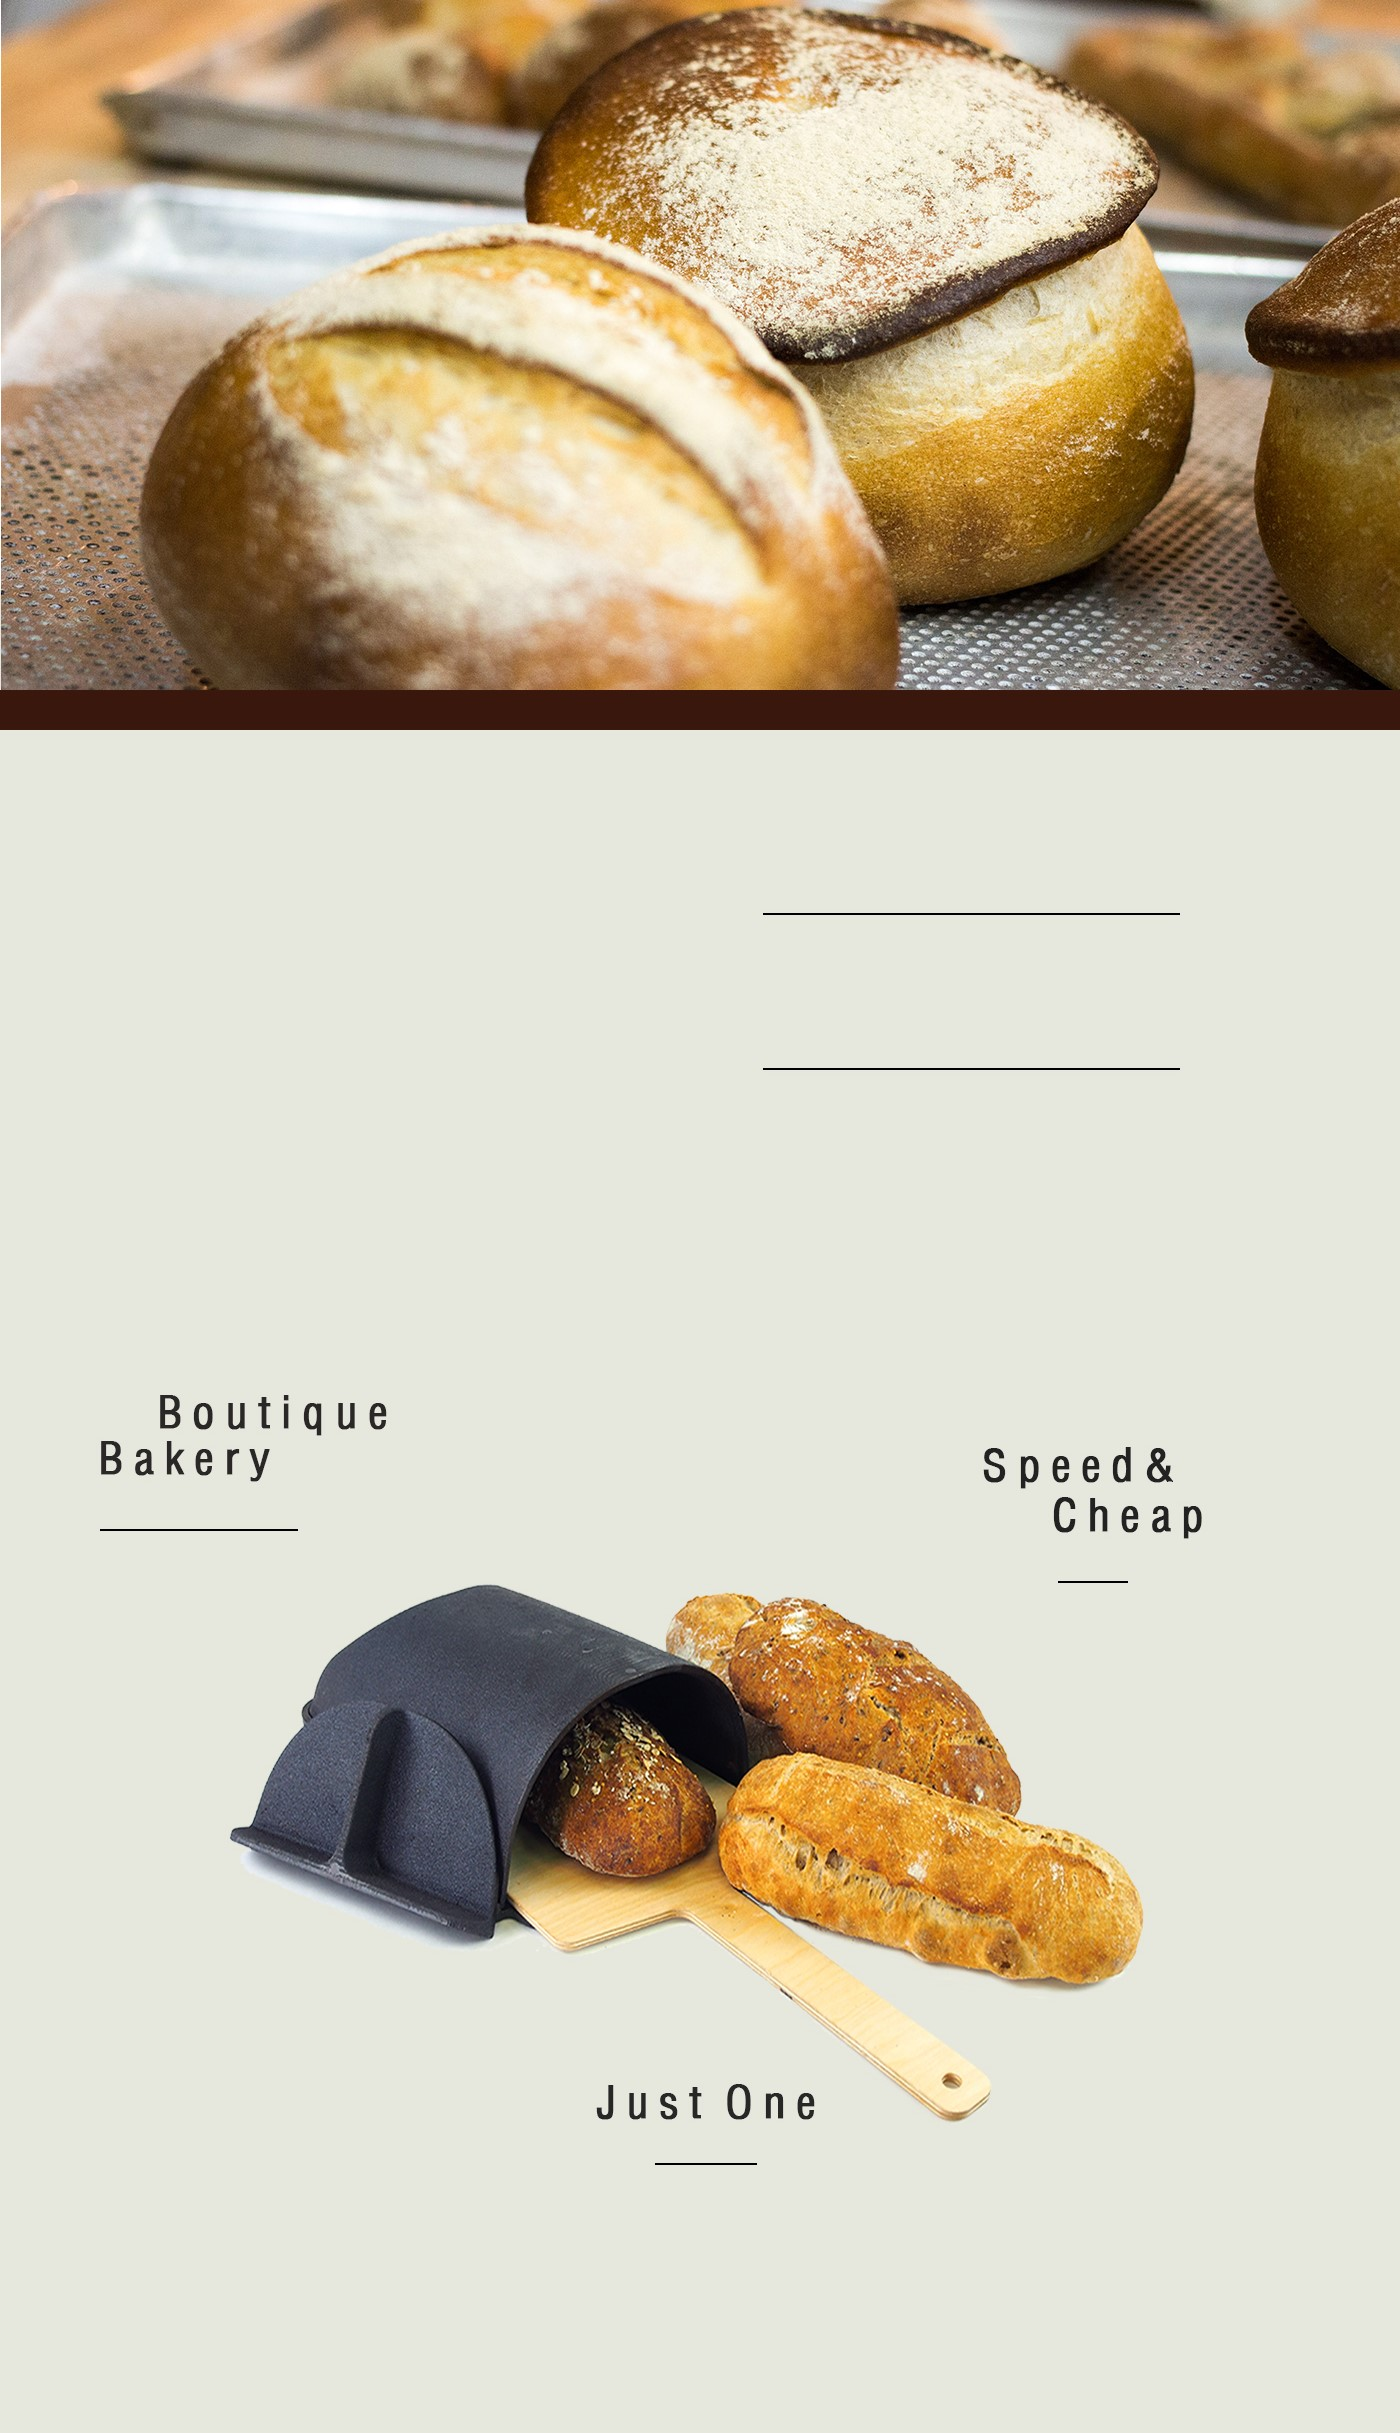
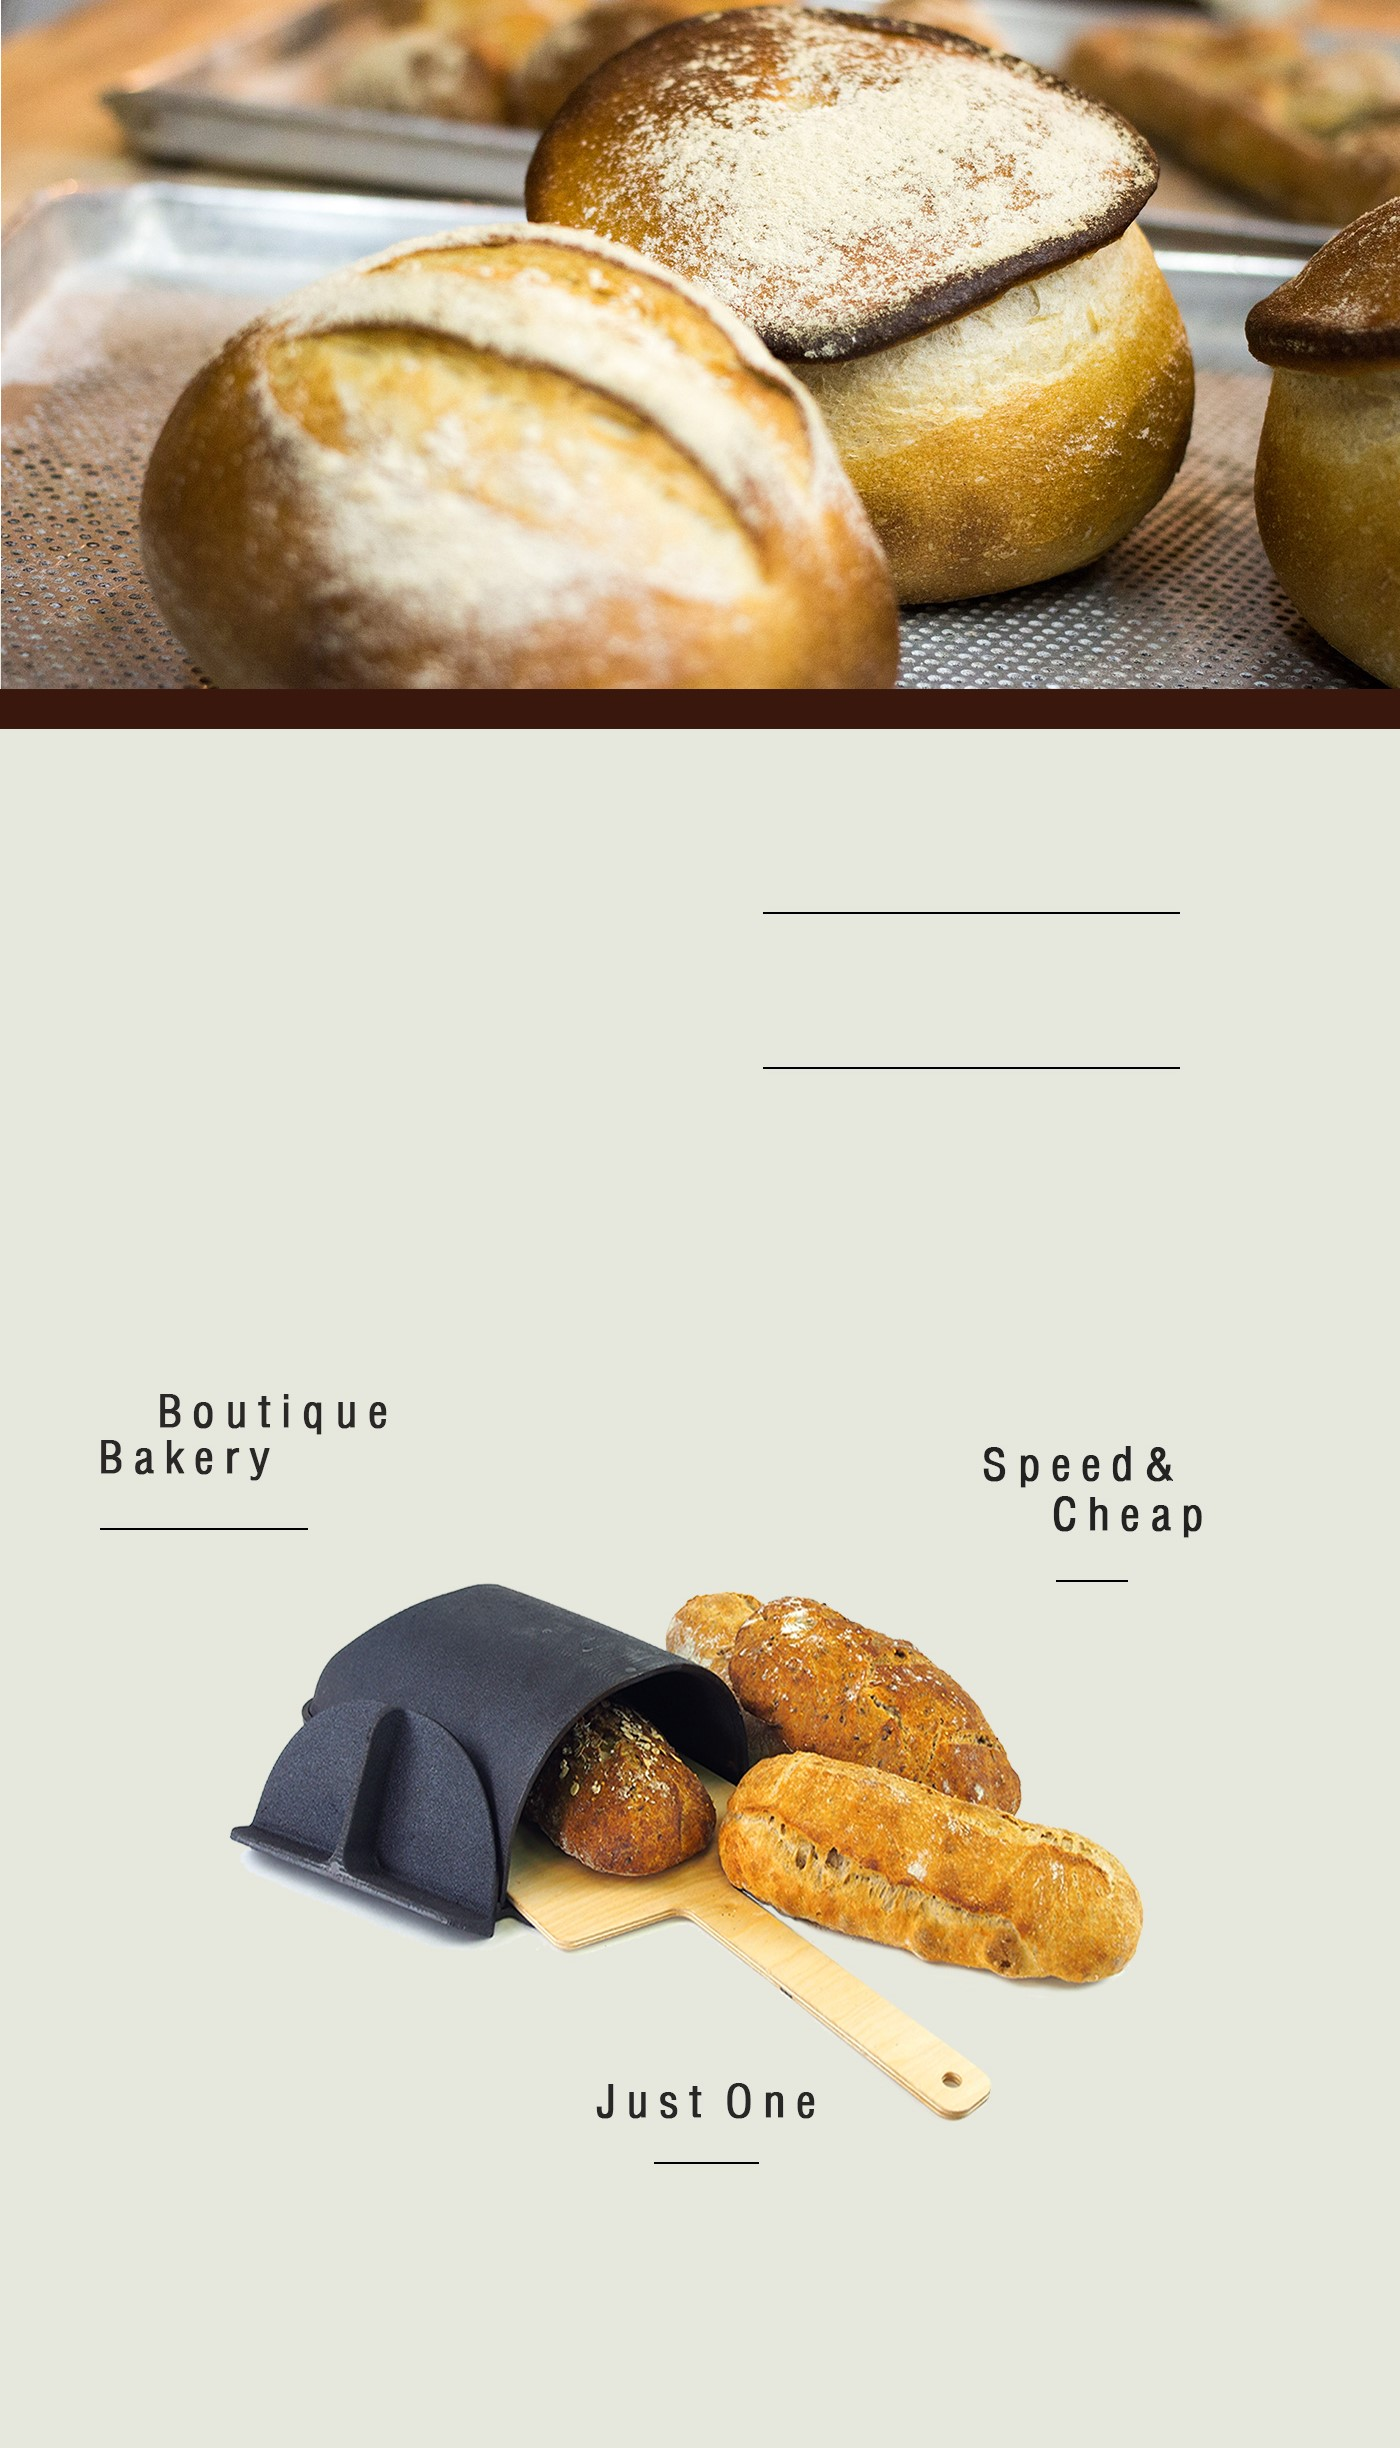
Add files via upload

diff --git a/index.html b/index.html
@@ -18,7 +18,7 @@
 
 		a:link, a:active, a:visited {text-decoration: none; color:black;}
 		ul, ol, li {list-style: none;}
-		#contents1 nav { width:1400px;   height:180px; position:absolute; top:678px; left:140px;  }
+		#contents1 nav { width:1400px;   height:180px; position:absolute; top:670px; left:140px;  }
 		
 		#title { position:relative; text-align:center; top:50px; left:-25px; font-weight: bold; font-size:2.5em;  }
 		
@@ -45,15 +45,15 @@
 		#contents1 #h3 {top:900px; left:550px; font-size:4.2em; line-height: 1.4; font-weight: 900;  }
 
 		
-		#contents1 #p1 {top:905px; left:-285px; font-size:1.15em; line-height: 2.3; font-weight: 400; text-align:center;}
-		#contents1 #p2 {top:660px; left:920px; font-size:1em; line-height: 2.3; font-weight: 400; }
-		#contents1 #p3 {top:645px; left:865px; font-size:1.6em; line-height: 2.2; font-weight: 700; }
-		#contents1 #p4 {top:1110px; left:100px; font-size:1.15em; line-height: 2.4; font-weight: 800; }
-		#contents1 #p5 {top:1115px; left:100px; font-size:1.15em; line-height: 2.2; font-weight: 400; }
-		#contents1 #p6 {top:922px; left:1055px; font-size:1.15em; line-height: 2.4; font-weight: 800; }
-		#contents1 #p7 {top:930px; left:1055px; font-size:1.15em; line-height: 2.2; font-weight: 400; }
-		#contents1 #p8 {top:1262px; left:5px; font-size:1.15em; line-height: 2.4; font-weight: 800; text-align:center;}
-		#contents1 #p9 {top:1270px; left:5px; font-size:1.15em; line-height: 2.2; font-weight: 400; text-align:center; }
+		#contents1 #p1 {top:900px; left:-285px; font-size:1.15em; line-height: 2.3; font-weight: 400; text-align:center;}
+		#contents1 #p2 {top:650px; left:920px; font-size:1em; line-height: 2.3; font-weight: 400; }
+		#contents1 #p3 {top:635px; left:865px; font-size:1.6em; line-height: 2.2; font-weight: 700; }
+		#contents1 #p4 {top:1100px; left:100px; font-size:1.15em; line-height: 2.4; font-weight: 700; }
+		#contents1 #p5 {top:1110px; left:100px; font-size:1.15em; line-height: 2.2; font-weight: 400; }
+		#contents1 #p6 {top:908px; left:1055px; font-size:1.15em; line-height: 2.4; font-weight: 700; }
+		#contents1 #p7 {top:925px; left:1055px; font-size:1.15em; line-height: 2.2; font-weight: 400; }
+		#contents1 #p8 {top:1245px; left:7px; font-size:1.15em; line-height: 2.4; font-weight: 700; text-align:center;}
+		#contents1 #p9 {top:1265px; left:5px; font-size:1.15em; line-height: 2.2; font-weight: 400; text-align:center; }
 	
 	
 
